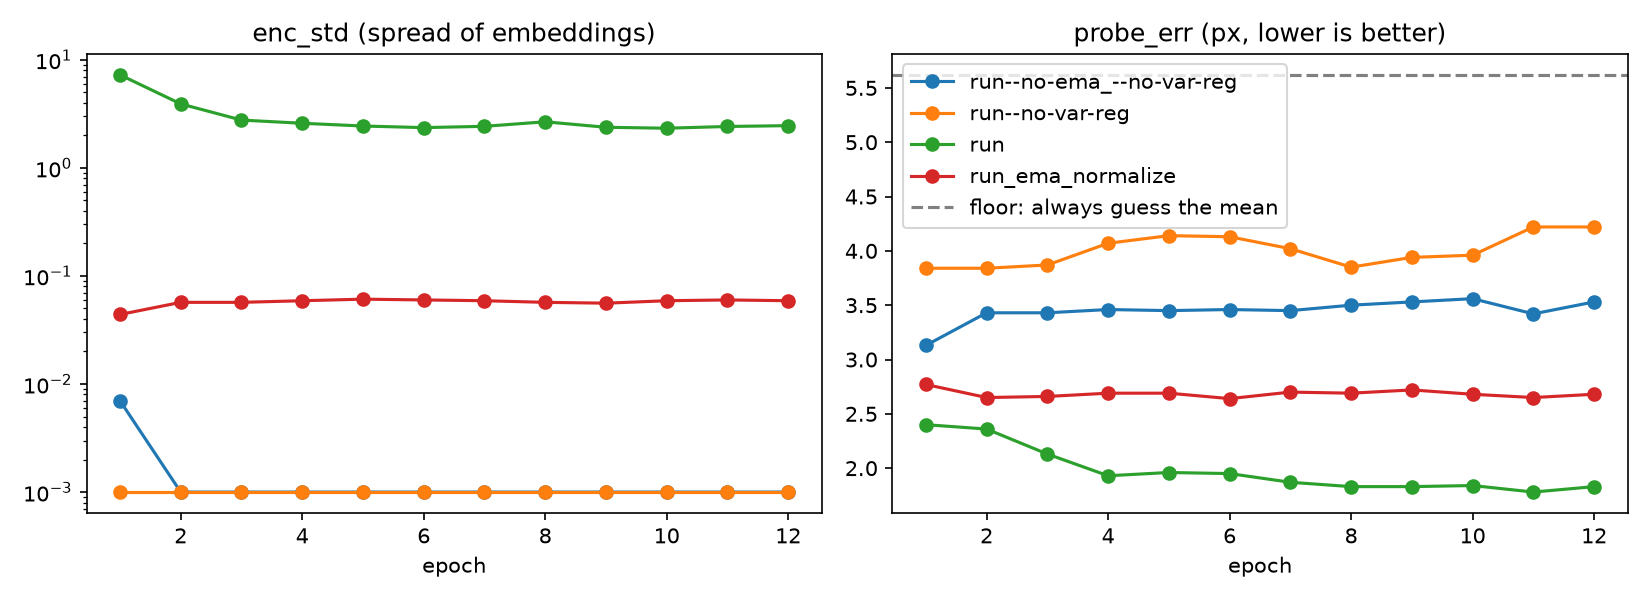
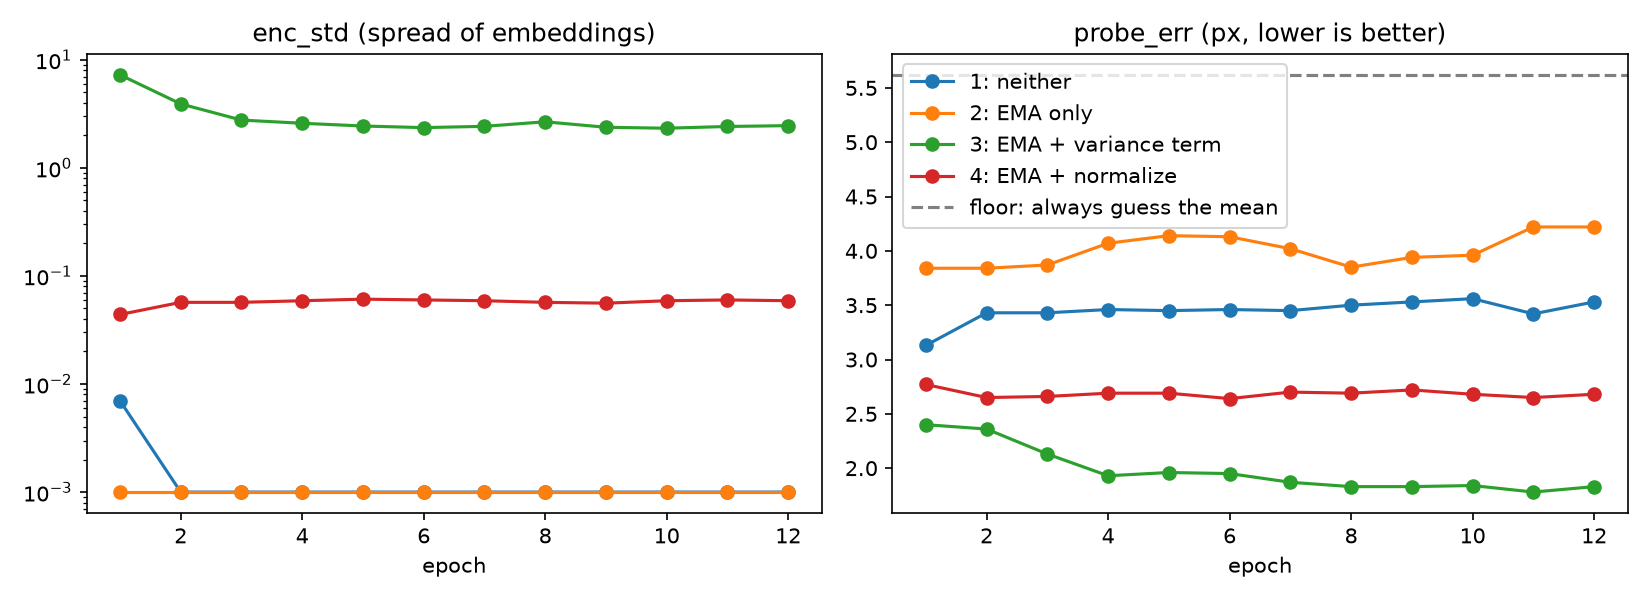
requirements.txt added; plot_runs.py runs from any folder and labels the runs by variant
requirements.txt records torch 2.13.0, numpy 2.5.2 and matplotlib 3.11.1.

plot_runs.py took logs/ and collapse.png from the current folder and labelled each line with its
file name (run--no-ema_--no-var-reg). The paths now come from the script's own location, and a
table gives each log the name its variant has in the README (1: neither ... 4: EMA + normalize).
The log parser is the same rule in a function, parse_log, and the script has a main().
collapse.png is redrawn with the new labels.

Checked: the epochs, enc_std and probe_err parsed from the four logs are equal to those parsed by
the previous script (saved before the change). With matplotlib 3.11.1 the previous script
redraws the committed collapse.png byte for byte, and the new image differs from it only inside
the legend (pixels x 970-1235, y 72-188). Running the script from another folder writes the same
file.

Changed region(s): [[0.5873, 0.18, 0.7418, 0.33], [0.5873, 0.12, 0.7727, 0.15]]

diff --git a/plot_runs.py b/plot_runs.py
@@ -1,29 +1,83 @@
-"""Plot enc_std and probe_err per epoch, one line per run, from the logs in logs/."""
+"""Plot enc_std and probe_err per epoch, one line per run, from the logs in logs/.
+
+    python plot_runs.py   # reads logs/*.txt, writes collapse.png; works from any folder
+
+Who wrote what: the author wrote the log parser; the matplotlib calls were written with an
+assistant. The labels, the paths and main() were added by Claude Code on Nov 15, 2026; the values
+plotted are unchanged.
+"""
+
 from pathlib import Path
 
 import matplotlib.pyplot as plt
 
-fig, (ax1, ax2) = plt.subplots(1, 2, figsize=(11, 4))
+ROOT = Path(__file__).parent
+LOGS = ROOT / "logs"
+PLOT = ROOT / "collapse.png"
 
-for f in sorted(Path("logs").glob("*.txt")):
-    lines = open(f)
-    epochs, enc_std, probe_err = [],[],[]
-    i=1
+# Log file -> the variant's name in the README's table. A log that is not listed here is labelled
+# with its file name.
+LABELS = {
+    "run--no-ema_--no-var-reg.txt": "1: neither",
+    "run--no-var-reg.txt": "2: EMA only",
+    "run.txt": "3: EMA + variance term",
+    "run_ema_normalize.txt": "4: EMA + normalize",
+}
+# Columns of an epoch row, as train_jepa.py prints it: epoch, loss, enc_std, probe_err.
+ENC_STD_COLUMN, PROBE_ERR_COLUMN = 2, 3
+# Error of always predicting the mean position, as stated in the README.
+MEAN_PREDICTOR_ERR_PX = 5.62
+
+Series = tuple[list[int], list[float], list[float]]  # epochs, enc_std, probe_err
+
+
+def parse_log(lines: list[str]) -> Series:
+    """Read the epoch rows of one training log.
+
+    A row counts when its first field is the next epoch number, so the header and the closing
+    lines are skipped.
+    """
+    epochs, enc_std, probe_err = [], [], []
+    i = 1
     for line in lines:
-        
-        l = line.split()
-        if l and l[0].isnumeric() and int(l[0]) == i:
-            i+=1
-            epochs.append(int(l[0]))
-            enc_std.append(float(l[2]))
-            probe_err.append(float(l[3]))
-    ax1.plot(epochs, enc_std, marker="o", label=f.stem)
-    ax2.plot(epochs, probe_err, marker="o", label=f.stem)
+        fields = line.split()
+        if fields and fields[0].isnumeric() and int(fields[0]) == i:
+            i += 1
+            epochs.append(int(fields[0]))
+            enc_std.append(float(fields[ENC_STD_COLUMN]))
+            probe_err.append(float(fields[PROBE_ERR_COLUMN]))
+    return epochs, enc_std, probe_err
 
-ax1.set_yscale("log")   # enc_std spans 0.001 to 7: on a normal axis three runs sit flat on 0
-ax1.set(title="enc_std (spread of embeddings)", xlabel="epoch")
-ax2.axhline(5.62, ls="--", color="gray", label="floor: always guess the mean")
-ax2.set(title="probe_err (px, lower is better)", xlabel="epoch")
-ax2.legend()
-fig.tight_layout()
-fig.savefig("collapse.png", dpi=150)
+
+def read_runs(logs: Path = LOGS) -> dict[str, Series]:
+    """Parse every log in `logs`, in file-name order. Returns label -> series."""
+    runs = {}
+    for f in sorted(logs.glob("*.txt")):
+        runs[LABELS.get(f.name, f.stem)] = parse_log(f.read_text().splitlines())
+    return runs
+
+
+def plot(runs: dict[str, Series], out: Path = PLOT) -> None:
+    """Draw the two panels and save them to `out`."""
+    fig, (ax1, ax2) = plt.subplots(1, 2, figsize=(11, 4))
+    for label, (epochs, enc_std, probe_err) in runs.items():
+        ax1.plot(epochs, enc_std, marker="o", label=label)
+        ax2.plot(epochs, probe_err, marker="o", label=label)
+
+    ax1.set_yscale("log")  # enc_std spans 0.001 to 7: on a normal axis three runs sit flat on 0
+    ax1.set(title="enc_std (spread of embeddings)", xlabel="epoch")
+    ax2.axhline(MEAN_PREDICTOR_ERR_PX, ls="--", color="gray", label="floor: always guess the mean")
+    ax2.set(title="probe_err (px, lower is better)", xlabel="epoch")
+    ax2.legend()
+    fig.tight_layout()
+    fig.savefig(out, dpi=150)
+
+
+def main() -> None:
+    """Rebuild collapse.png from the logs."""
+    plot(read_runs())
+    print(f"wrote {PLOT}")
+
+
+if __name__ == "__main__":
+    main()
